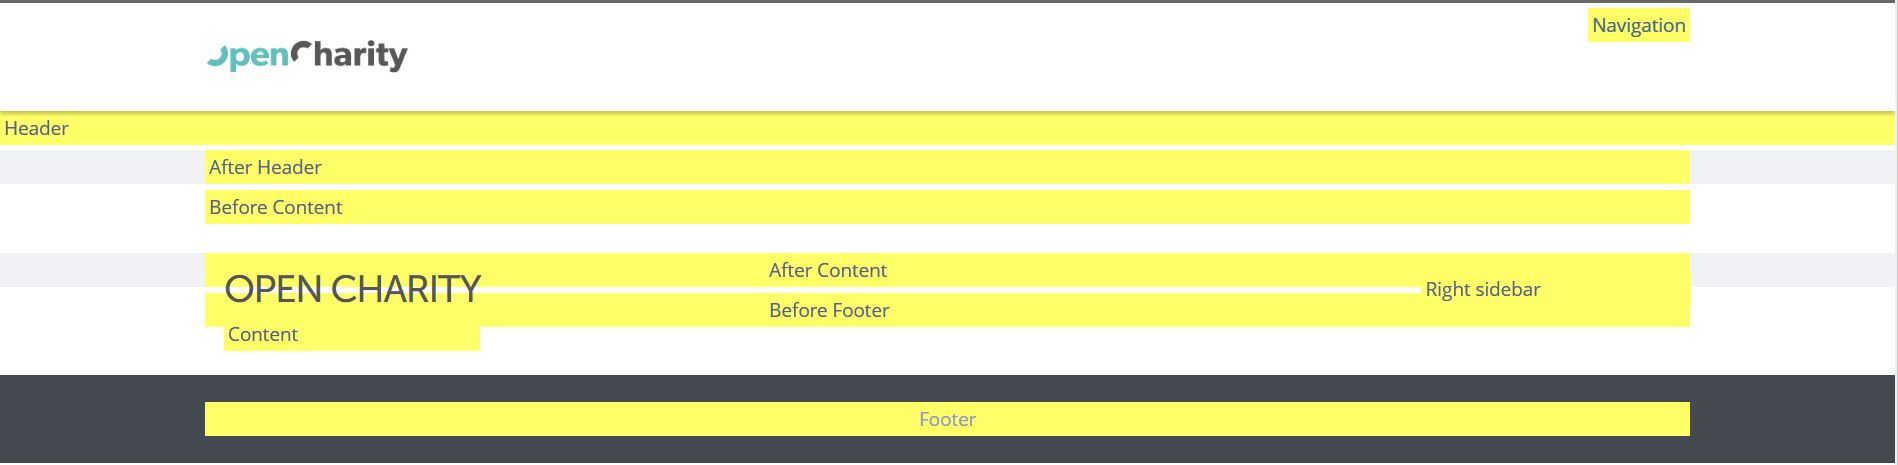
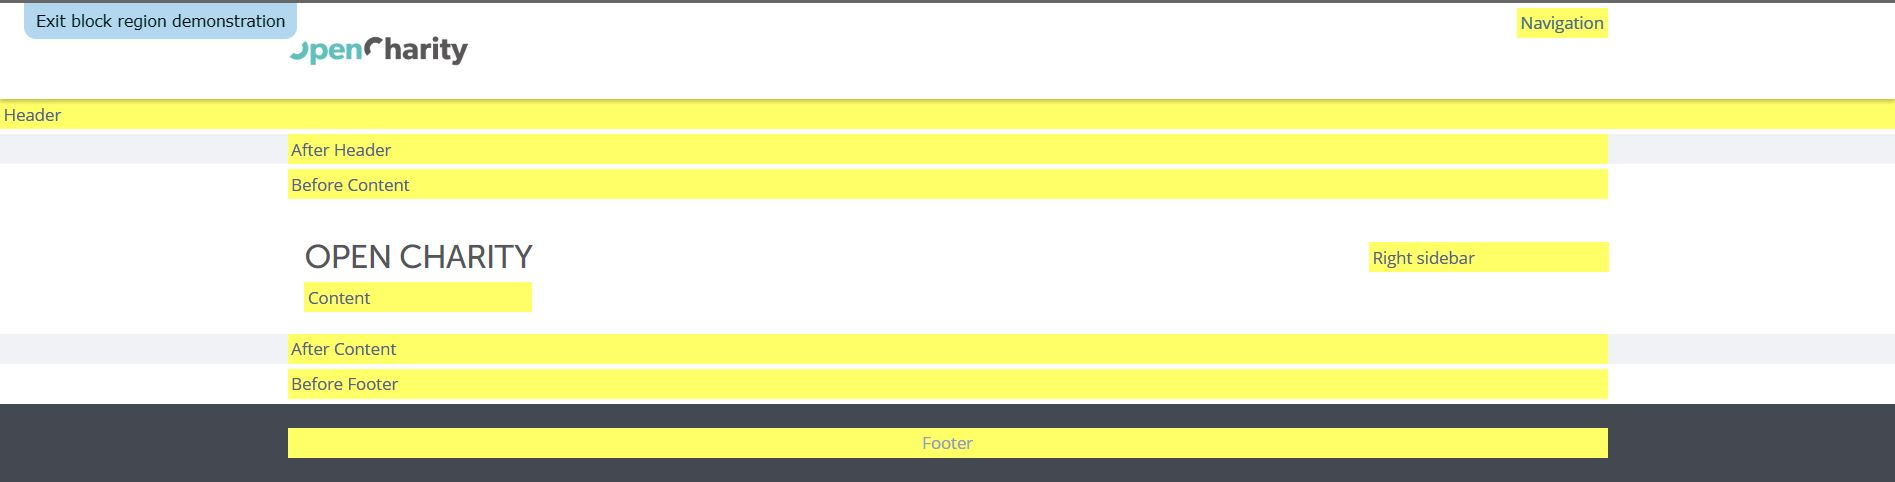
block simulation and update to css

diff --git a/stylesheets/style.css b/stylesheets/style.css
@@ -362,6 +362,7 @@ body div#main #sidebar {
 /* line 201, ../sass/layout.scss */
 body div#after-content {
   background-color: #F1F2F5;
+  clear: both;
 }
 /* line 202, ../sass/layout.scss */
 body div#after-content .region .block {
@@ -373,17 +374,17 @@ body div#after-content .region .block:first-child {
   border-top: 0px;
   margin-top: 0;
 }
-/* line 214, ../sass/layout.scss */
+/* line 215, ../sass/layout.scss */
 body div#before-footer .region .block {
   margin-top: 2em;
   border-top: 1px solid #d9dadd;
 }
-/* line 215, ../sass/layout.scss */
+/* line 216, ../sass/layout.scss */
 body div#before-footer .region .block:first-child {
   border-top: 0px;
   margin-top: 0;
 }
-/* line 224, ../sass/layout.scss */
+/* line 225, ../sass/layout.scss */
 body footer {
   background-color: #444850;
   padding-top: 1rem;
@@ -395,59 +396,59 @@ body footer {
   width: 100%;
   flex-shrink: 0;
 }
-/* line 225, ../sass/layout.scss */
+/* line 226, ../sass/layout.scss */
 body footer a {
   text-decoration: none;
 }
-/* line 227, ../sass/layout.scss */
+/* line 228, ../sass/layout.scss */
 body footer a:hover {
   color: #fff;
 }
-/* line 231, ../sass/layout.scss */
+/* line 232, ../sass/layout.scss */
 body footer .block {
   padding: .5em 0;
 }
-/* line 233, ../sass/layout.scss */
+/* line 234, ../sass/layout.scss */
 body footer .block:not(:first-child) {
   border-top: 1px solid #575b64;
 }
-/* line 237, ../sass/layout.scss */
+/* line 238, ../sass/layout.scss */
 body footer .block:not(:first-child) {
   border-top: 1px solid #575b64;
 }
-/* line 251, ../sass/layout.scss */
+/* line 252, ../sass/layout.scss */
 body .flex-slider {
   overflow: hidden !important;
   position: relative;
   clear: both;
 }
-/* line 253, ../sass/layout.scss */
+/* line 254, ../sass/layout.scss */
 body .flex-slider.flex-sidebutton.has-button .view-content {
   margin-left: 30px;
   margin-right: 30px;
 }
-/* line 258, ../sass/layout.scss */
+/* line 259, ../sass/layout.scss */
 body .flex-slider.flex-sidebutton.has-button.has-button-outside {
   overflow: visible !important;
 }
-/* line 259, ../sass/layout.scss */
+/* line 260, ../sass/layout.scss */
 body .flex-slider.flex-sidebutton.has-button.has-button-outside .view-content {
   margin-left: -15px;
   margin-right: -15px;
 }
-/* line 263, ../sass/layout.scss */
+/* line 264, ../sass/layout.scss */
 body .flex-slider.flex-sidebutton.has-button.has-button-outside .side-button-l {
   left: -30px;
 }
-/* line 266, ../sass/layout.scss */
+/* line 267, ../sass/layout.scss */
 body .flex-slider.flex-sidebutton.has-button.has-button-outside .side-button-r {
   right: -30px;
 }
-/* line 271, ../sass/layout.scss */
+/* line 272, ../sass/layout.scss */
 body .flex-slider .slide-buttons {
   text-align: center;
 }
-/* line 272, ../sass/layout.scss */
+/* line 273, ../sass/layout.scss */
 body .flex-slider .slide-buttons a {
   color: #979EB2;
   text-decoration: none;
@@ -455,17 +456,17 @@ body .flex-slider .slide-buttons a {
   padding: 0 2px;
   cursor: pointer;
 }
-/* line 278, ../sass/layout.scss */
+/* line 279, ../sass/layout.scss */
 body .flex-slider .slide-buttons a.active {
   color: #5BC0C3 !important;
 }
-/* line 284, ../sass/layout.scss */
+/* line 285, ../sass/layout.scss */
 body .flex-slider .view-content {
   white-space: nowrap;
   overflow: hidden !important;
   transition: .5s all;
 }
-/* line 285, ../sass/layout.scss */
+/* line 286, ../sass/layout.scss */
 body .flex-slider .view-content .views-row {
   display: inline-block;
   margin: 0;
@@ -473,7 +474,7 @@ body .flex-slider .view-content .views-row {
   left: 0;
   transition: .5s all;
 }
-/* line 297, ../sass/layout.scss */
+/* line 298, ../sass/layout.scss */
 body .flex-slider .side-button-l {
   float: left;
   position: absolute;
@@ -486,7 +487,7 @@ body .flex-slider .side-button-l {
   left: 0;
   cursor: pointer;
 }
-/* line 309, ../sass/layout.scss */
+/* line 310, ../sass/layout.scss */
 body .flex-slider .side-button-r {
   float: right;
   position: absolute;
@@ -499,7 +500,7 @@ body .flex-slider .side-button-r {
   right: 0;
   cursor: pointer;
 }
-/* line 325, ../sass/layout.scss */
+/* line 326, ../sass/layout.scss */
 body input[type=button], body input[type=submit] {
   border: 1px solid #5fc0c3;
   padding: .6em .5em;
@@ -515,12 +516,12 @@ body input[type=button]:hover, body input[type=submit]:hover {
   background: #5fc0c3;
   color: #fff;
 }
-/* line 329, ../sass/layout.scss */
+/* line 330, ../sass/layout.scss */
 body input[type=button]:hover, body input[type=submit]:hover {
   background-color: #f1f2f5;
   color: #444850;
 }
-/* line 335, ../sass/layout.scss */
+/* line 336, ../sass/layout.scss */
 body .field-items img {
   max-width: 100%;
   height: auto;

diff --git a/sass/layout.scss b/sass/layout.scss
@@ -207,7 +207,8 @@ body{
             margin-top: 2em;
             border-top: 1px solid #d9dadd;
         }
-        background-color: #F1F2F5;        
+        background-color: #F1F2F5;      
+        clear: both;
     }
 
     div#before-footer{
